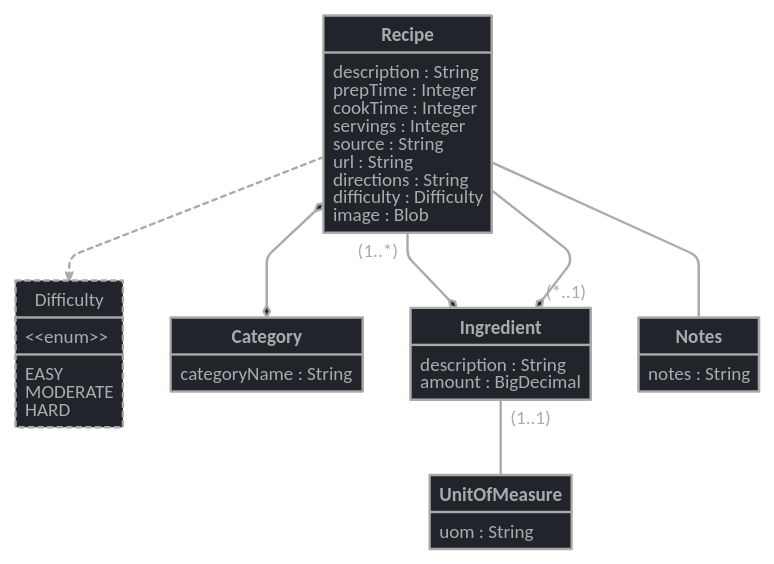
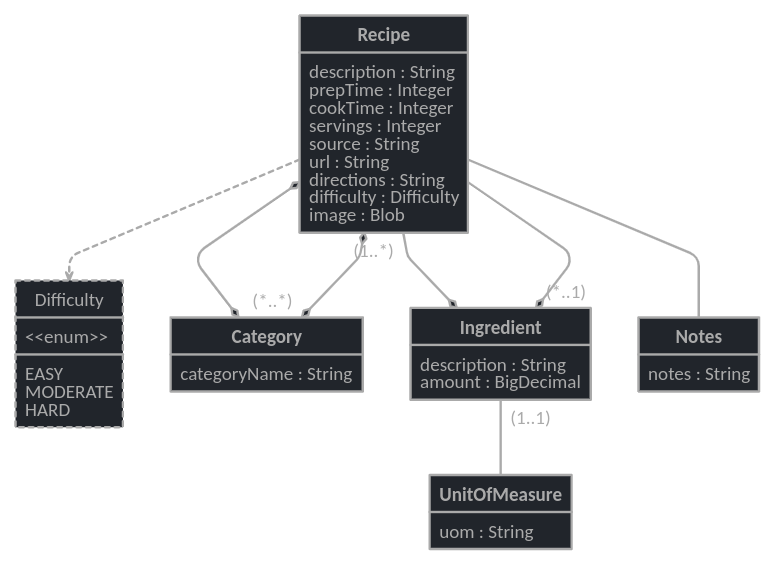
Added M2M for Category and Recipe

diff --git a/src/main/java/com/alexquazar/SpringPracticeRecipes/model/Recipe.java b/src/main/java/com/alexquazar/SpringPracticeRecipes/model/Recipe.java
@@ -9,7 +9,10 @@ import jakarta.persistence.Enumerated;
 import jakarta.persistence.GeneratedValue;
 import jakarta.persistence.GenerationType;
 import jakarta.persistence.Id;
+import jakarta.persistence.JoinColumn;
+import jakarta.persistence.JoinTable;
 import jakarta.persistence.Lob;
+import jakarta.persistence.ManyToMany;
 import jakarta.persistence.OneToMany;
 import jakarta.persistence.OneToOne;
 
@@ -38,6 +41,12 @@ public class Recipe {
 
     @OneToOne(cascade = CascadeType.ALL)
     private Notes notes;
+
+    @ManyToMany
+    @JoinTable(name = "recipe_category", 
+    joinColumns = @JoinColumn(name = "recipe_id"), 
+    inverseJoinColumns = @JoinColumn(name = "category_id"))
+    private Set<Category> categories;
 
     public Set<Ingredient> getIngredients() {
         return ingredients;
@@ -135,4 +144,13 @@ public class Recipe {
         this.difficulty = difficulty;
     }
 
+    public Set<Category> getCategories() {
+        return categories;
+    }
+
+    public void setCategories(Set<Category> categories) {
+        this.categories = categories;
+    }
+
+    
 }

diff --git a/src/main/java/com/alexquazar/SpringPracticeRecipes/model/Category.java b/src/main/java/com/alexquazar/SpringPracticeRecipes/model/Category.java
@@ -1,0 +1,46 @@
+package com.alexquazar.SpringPracticeRecipes.model;
+
+import java.util.Set;
+
+import jakarta.persistence.Entity;
+import jakarta.persistence.GeneratedValue;
+import jakarta.persistence.GenerationType;
+import jakarta.persistence.Id;
+import jakarta.persistence.ManyToMany;
+
+@Entity
+public class Category {
+
+    @Id
+    @GeneratedValue(strategy = GenerationType.IDENTITY)
+    private Long id;
+    private String description;
+
+    @ManyToMany(mappedBy = "categories")
+    private Set<Recipe> recipes;
+
+    public Long getId() {
+        return id;
+    }
+
+    public void setId(Long id) {
+        this.id = id;
+    }
+
+    public String getDescription() {
+        return description;
+    }
+
+    public void setDescription(String description) {
+        this.description = description;
+    }
+
+    public Set<Recipe> getRecipes() {
+        return recipes;
+    }
+
+    public void setRecipes(Set<Recipe> recipes) {
+        this.recipes = recipes;
+    }
+
+}
